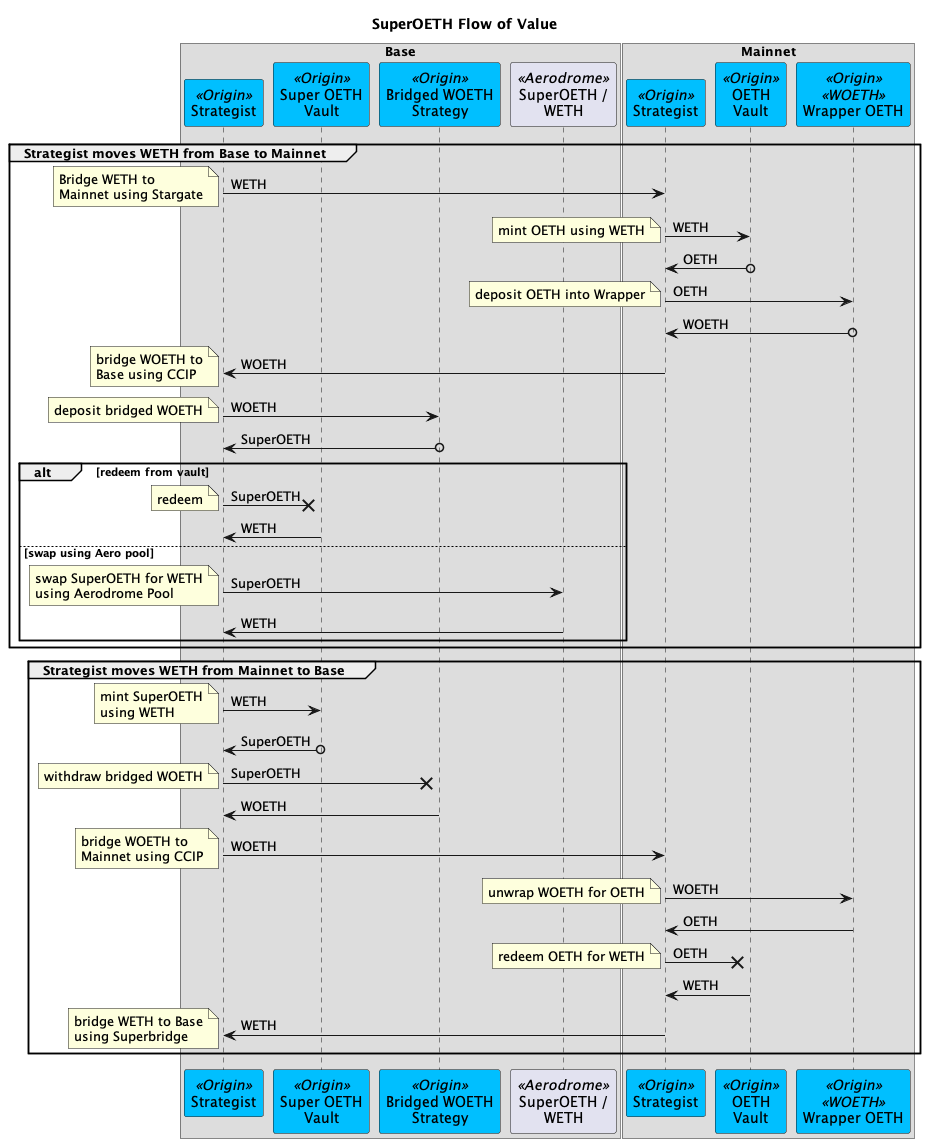
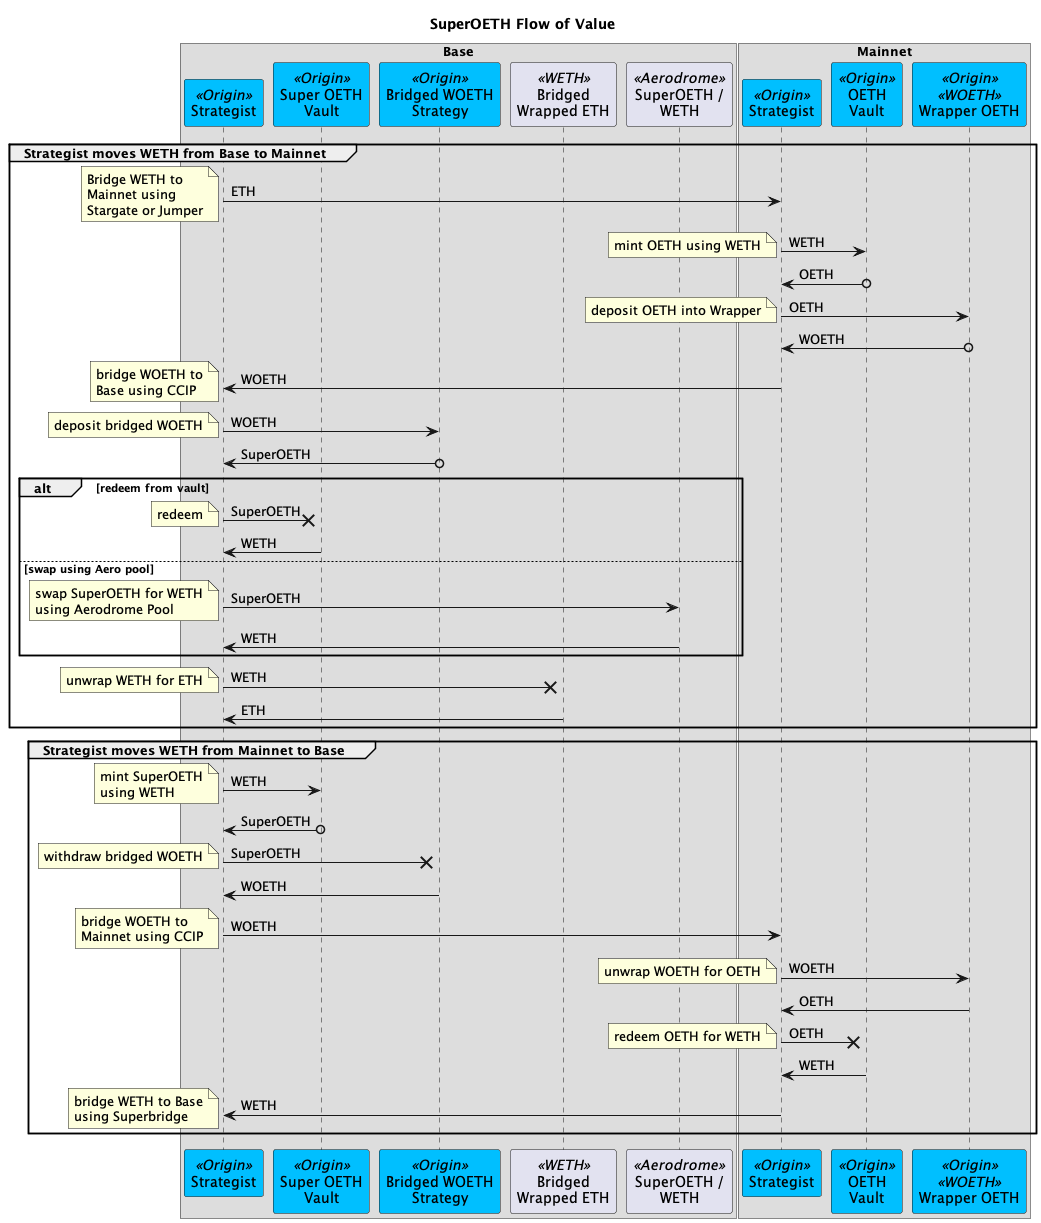
Run log 11 June 25 (#2530)
* Run log 11 June 25

* Base deposit wOETH to Bridging Strategy and redeem superOETH

* Run log Mint OETH, deposit wOETH and bridge wOETH to Base using CCIP

* Run log

* Updated the Base bridging flow

diff --git a/brownie/runlogs/2025_06_strategist.py b/brownie/runlogs/2025_06_strategist.py
@@ -168,3 +168,295 @@ def main():
     print("Pool OETH  ", "{:.6f}".format(oethPoolBalance / 10**18), oethPoolBalance * 100 / totalPool)
     print("Pool Total ", "{:.6f}".format(totalPool / 10**18), totalPool)
     print("Sell 10 OETH Curve prices before and after", "{:.6f}".format(weth_out_before / 10**18), "{:.6f}".format(weth_out_after / 10**18))
+
+# -------------------------------------
+# June 11, 2025 - Withdraw all from new Curve AMO and deposit to old Convex AMO
+# -------------------------------------
+from world import *
+
+def main():
+  with TemporaryForkForReallocations() as txs:
+    # Before
+    txs.append(vault_oeth_core.rebase(std))
+    txs.append(oeth_vault_value_checker.takeSnapshot(std))
+
+    # AMO pool before
+    wethPoolBalance = weth.balanceOf(OETH_CURVE_POOL)
+    oethPoolBalance = oeth.balanceOf(OETH_CURVE_POOL)
+    totalPool = wethPoolBalance + oethPoolBalance
+    weth_out_before = oeth_curve_pool.get_dy(1, 0, 10**18)
+
+    print("Curve OETH/WETH Pool before")  
+    print("Pool WETH  ", "{:.6f}".format(wethPoolBalance / 10**18), wethPoolBalance * 100 / totalPool)
+    print("Pool OETH  ", "{:.6f}".format(oethPoolBalance / 10**18), oethPoolBalance * 100 / totalPool)
+    print("Pool Total ", "{:.6f}".format(totalPool / 10**18), totalPool)
+
+    # Withdraw WETH from new Curve AMO
+    txs.append(
+      vault_oeth_admin.withdrawAllFromStrategy(
+        OETH_CURVE_AMO_STRAT,
+        {'from': STRATEGIST}
+      )
+    )
+
+    wethVaultBalance = weth.balanceOf(VAULT_OETH_PROXY_ADDRESS)
+    wethVaultBalance = wethVaultBalance - 3 * 10**18
+    print("WETH to deposit to Convex AMO", "{:.6f}".format(wethVaultBalance / 10**18), wethVaultBalance)
+
+    # Deposit WETH to old Convex AMO
+    txs.append(
+      vault_oeth_admin.depositToStrategy(
+        OETH_CONVEX_OETH_ETH_STRAT, 
+        [weth],
+        [wethVaultBalance],
+        {'from': STRATEGIST}
+      )
+    )
+
+    # After
+    vault_change = vault_oeth_core.totalValue() - oeth_vault_value_checker.snapshots(STRATEGIST)[0]
+    supply_change = oeth.totalSupply() - oeth_vault_value_checker.snapshots(STRATEGIST)[1]
+    profit = vault_change - supply_change
+
+    txs.append(oeth_vault_value_checker.checkDelta(profit, (1 * 10**18), vault_change, (1 * 10**18), std))
+
+    print("-----")
+    print("Profit", "{:.6f}".format(profit / 10**18), profit)
+    print("OETH supply change", "{:.6f}".format(supply_change / 10**18), supply_change)
+    print("Vault Change", "{:.6f}".format(vault_change / 10**18), vault_change)
+    print("-----")
+
+    # AMO pool after
+    wethPoolBalance = weth.balanceOf(OETH_CURVE_POOL)
+    oethPoolBalance = oeth.balanceOf(OETH_CURVE_POOL)
+    totalPool = wethPoolBalance + oethPoolBalance
+    weth_out_after = oeth_curve_pool.get_dy(1, 0, 10**18)
+
+    print("Curve OETH/ETH Pool after")  
+    print("Pool WETH  ", "{:.6f}".format(wethPoolBalance / 10**18), wethPoolBalance * 100 / totalPool)
+    print("Pool OETH  ", "{:.6f}".format(oethPoolBalance / 10**18), oethPoolBalance * 100 / totalPool)
+    print("Pool Total ", "{:.6f}".format(totalPool / 10**18), totalPool)
+    print("Sell 10 OETH Curve prices before and after", "{:.6f}".format(weth_out_before / 10**18), "{:.6f}".format(weth_out_after / 10**18))
+
+
+# -----------------------------------------------------
+# June 12, 2025 - Base deposit wOETH to Bridging Strategy and redeem superOETHb
+# -----------------------------------------------------
+from aerodrome_harvest import *
+
+def main():
+  with TemporaryForkForReallocations() as txs:
+    # Hack to make weth.withdraw work
+    brownie.network.web3.provider.make_request('hardhat_setCode', [OETHB_MULTICHAIN_STRATEGIST, '0x'])
+
+    woeth_amount = woeth.balanceOf(OETHB_MULTICHAIN_STRATEGIST)
+
+    # Update oracle price
+    txs.append(woeth_strat.updateWOETHOraclePrice({ 'from': OETHB_MULTICHAIN_STRATEGIST }))
+    
+    # expected_oethb = woeth_strat.getBridgedWOETHValue(woeth_amount)
+
+    # Rebase
+    txs.append(vault_core.rebase({ 'from': OETHB_MULTICHAIN_STRATEGIST }))
+
+    # Take Vault snapshot 
+    txs.append(vault_value_checker.takeSnapshot({ 'from': OETHB_MULTICHAIN_STRATEGIST }))
+
+    # Deposit to wOETH strategy
+    txs.append(woeth_strat.depositBridgedWOETH(woeth_amount, { 'from': OETHB_MULTICHAIN_STRATEGIST }))
+
+    # Get the amount of superOETHb now in the multisig
+    oethb_amount = oethb.balanceOf(OETHB_MULTICHAIN_STRATEGIST)
+
+    # Redeem the superOETHb for WETH
+    txs.append(vault_core.redeem(oethb_amount, oethb_amount, { 'from': MULTICHAIN_STRATEGIST }))
+
+    # Unwrap WETH to ETH so it can be bridged to Ethereum
+    txs.append(
+        weth.withdraw(oethb_amount, {'from': OETHB_MULTICHAIN_STRATEGIST})
+    )
+
+    # Rebase so that any yields from price update and
+    # backing asset change from deposit are accounted for.
+    txs.append(vault_core.rebase({ 'from': OETHB_MULTICHAIN_STRATEGIST }))
+
+    # Check Vault Value against snapshot
+    vault_change = vault_core.totalValue() - vault_value_checker.snapshots(OETHB_MULTICHAIN_STRATEGIST)[0]
+    supply_change = oethb.totalSupply() - vault_value_checker.snapshots(OETHB_MULTICHAIN_STRATEGIST)[1]
+    profit = vault_change - supply_change
+
+    txs.append(vault_value_checker.checkDelta(profit, (0.1 * 10**18), vault_change, (1 * 10**18), {'from': OETHB_MULTICHAIN_STRATEGIST}))
+
+    print("--------------------")
+    print("Deposited wOETH     ", c18(woeth_amount), woeth_amount)
+    print("Redeemed superOETHb ", c18(oethb_amount), oethb_amount)
+    print("--------------------")
+    print("Profit       ", c18(profit), profit)
+    print("Vault Change ", c18(vault_change), vault_change)
+
+# -------------------------------------
+# June 12, 2025 - Mint OETH, deposit wOETH and bridge wOETH to Base using CCIP
+# -------------------------------------
+from world import *
+import eth_abi
+
+def main():
+  with TemporaryForkForReallocations() as txs:
+    oeth_amount = 858 * 10**18  # 858 ETH
+
+    txs.append(
+        weth.approve(OETH_VAULT, oeth_amount, std)
+    )
+
+    # Mint OETH with WETH, 1:1
+    txs.append(
+        oeth_vault_core.mint(WETH, oeth_amount, oeth_amount, std)
+    )
+
+    txs.append(
+        woeth.deposit(oeth_amount, MULTICHAIN_STRATEGIST, std)
+    )
+
+    # Before
+    txs.append(vault_oeth_core.rebase(std))
+    txs.append(oeth_vault_value_checker.takeSnapshot(std))
+
+    # AMO pool before
+    ethPoolBalance = oeth_metapool.balance()
+    oethPoolBalance = oeth.balanceOf(OETH_METAPOOL)
+    totalPool = ethPoolBalance + oethPoolBalance
+    weth_out_before = oeth_metapool.get_dy(1, 0, 10**18)
+
+    print("Curve OETH/ETH Pool before")  
+    print("Pool ETH   ", "{:.6f}".format(ethPoolBalance / 10**18), ethPoolBalance * 100 / totalPool)
+    print("Pool OETH  ", "{:.6f}".format(oethPoolBalance / 10**18), oethPoolBalance * 100 / totalPool)
+    print("Pool Total ", "{:.6f}".format(totalPool / 10**18), totalPool)
+
+    # Deposit WETH to old Convex AMO
+    txs.append(
+      vault_oeth_admin.depositToStrategy(
+        OETH_CONVEX_OETH_ETH_STRAT, 
+        [WETH],
+        [oeth_amount],
+        {'from': STRATEGIST}
+      )
+    )
+
+    # AMO pool after
+    ethPoolBalance = oeth_metapool.balance()
+    oethPoolBalance = oeth.balanceOf(OETH_METAPOOL)
+    totalPool = ethPoolBalance + oethPoolBalance
+    weth_out_after = oeth_metapool.get_dy(1, 0, 10**18)
+
+    print("Curve OETH/ETH Pool after")  
+    print("Pool  ETH   ", "{:.6f}".format(ethPoolBalance / 10**18), ethPoolBalance * 100 / totalPool)
+    print("Pool OETH   ", "{:.6f}".format(oethPoolBalance / 10**18), oethPoolBalance * 100 / totalPool)
+    print("Pool Total ", "{:.6f}".format(totalPool / 10**18), totalPool)
+    print("Sell 10 OETH Curve prices before and after", "{:.6f}".format(weth_out_before / 10**18), "{:.6f}".format(weth_out_after / 10**18))
+
+    # After
+    vault_change = vault_oeth_core.totalValue() - oeth_vault_value_checker.snapshots(STRATEGIST)[0]
+    supply_change = oeth.totalSupply() - oeth_vault_value_checker.snapshots(STRATEGIST)[1]
+    profit = vault_change - supply_change
+
+    txs.append(oeth_vault_value_checker.checkDelta(profit, (1 * 10**18), vault_change, (1 * 10**18), std))
+
+    print("-----")
+    print("Profit", "{:.6f}".format(profit / 10**18), profit)
+    print("OETH supply change", "{:.6f}".format(supply_change / 10**18), supply_change)
+    print("Vault Change", "{:.6f}".format(vault_change / 10**18), vault_change)
+    print("-----")
+
+    # woeth_amount = woeth.balanceOf(MULTICHAIN_STRATEGIST)
+    print("wOETH balance", "{:.6f}".format(woeth.balanceOf(MULTICHAIN_STRATEGIST) / 10**18))
+    woeth_amount = 758.8 * 10**18  # 758.8 ETH
+
+    print("Minted  OETH ", "{:.6f}".format(oeth_amount / 10**18), oeth_amount)
+    print("Minted wOETH ", "{:.6f}".format(woeth_amount / 10**18), woeth_amount)
+
+    txs.append(
+      woeth.approve(CCIP_ROUTER, woeth_amount, std)
+    )
+
+    BASE_CHAIN_SELECTOR = 15971525489660198786
+
+    ccip_message = [
+          eth_abi.encode(['address'], [OETHB_MULTICHAIN_STRATEGIST]),
+          '0x',
+          [(WOETH, woeth_amount)],
+          ADDR_ZERO,
[1 lines of base64/hex data omitted]
+        ]
+    ccip_fee = ccip_router.getFee(BASE_CHAIN_SELECTOR, ccip_message)
+    ccip_fee = ccip_fee * 11 / 10  # Add 10% buffer
+
+    print("CCIP fee     ", ccip_fee)
+
+    txs.append(
+      ccip_router.ccipSend(
+        BASE_CHAIN_SELECTOR,
+        ccip_message,
+        { 'value': ccip_fee, 'from': MULTICHAIN_STRATEGIST }
+      )
+    )
+
+# -----------------------------------------------------
+# June 12, 2025 - Base deposit wOETH to Bridging Strategy and redeem superOETHb
+# -----------------------------------------------------
+from aerodrome_harvest import *
+
+def main():
+  with TemporaryForkForReallocations() as txs:
+    # Hack to make weth.withdraw work
+    brownie.network.web3.provider.make_request('hardhat_setCode', [OETHB_MULTICHAIN_STRATEGIST, '0x'])
+
+    woeth_amount = woeth.balanceOf(OETHB_MULTICHAIN_STRATEGIST)
+
+    # Update oracle price
+    txs.append(woeth_strat.updateWOETHOraclePrice({ 'from': OETHB_MULTICHAIN_STRATEGIST }))
+    
+    # expected_oethb = woeth_strat.getBridgedWOETHValue(woeth_amount)
+
+    # Rebase
+    txs.append(vault_core.rebase({ 'from': OETHB_MULTICHAIN_STRATEGIST }))
+
+    # Take Vault snapshot 
+    txs.append(vault_value_checker.takeSnapshot({ 'from': OETHB_MULTICHAIN_STRATEGIST }))
+
+    # Deposit to wOETH strategy
+    txs.append(woeth_strat.depositBridgedWOETH(woeth_amount, { 'from': OETHB_MULTICHAIN_STRATEGIST }))
+
+    # Get the amount of superOETHb now in the multisig
+    oethb_minted = oethb.balanceOf(OETHB_MULTICHAIN_STRATEGIST)
+
+    oethb_redeemed = 492 * 10**18  # 492 ETH
+    oethb_remaining = oethb_minted - oethb_redeemed
+
+    # Redeem the superOETHb for WETH
+    txs.append(vault_core.redeem(oethb_redeemed, oethb_redeemed, { 'from': MULTICHAIN_STRATEGIST }))
+
+    # Unwrap WETH to ETH so it can be bridged to Ethereum
+    txs.append(
+        weth.withdraw(oethb_redeemed, {'from': OETHB_MULTICHAIN_STRATEGIST})
+    )
+
+    # Rebase so that any yields from price update and
+    # backing asset change from deposit are accounted for.
+    txs.append(vault_core.rebase({ 'from': OETHB_MULTICHAIN_STRATEGIST }))
+
+    # Check Vault Value against snapshot
+    vault_change = vault_core.totalValue() - vault_value_checker.snapshots(OETHB_MULTICHAIN_STRATEGIST)[0]
+    supply_change = oethb.totalSupply() - vault_value_checker.snapshots(OETHB_MULTICHAIN_STRATEGIST)[1]
+    profit = vault_change - supply_change
+
+    txs.append(vault_value_checker.checkDelta(profit, (0.1 * 10**18), vault_change, (1 * 10**18), {'from': OETHB_MULTICHAIN_STRATEGIST}))
+
+    print("--------------------")
+    print("Deposited wOETH     ", c18(woeth_amount), woeth_amount)
+    print("Minted superOETHb   ", c18(oethb_minted), oethb_minted)
+    print("Redeemed superOETHb ", c18(oethb_redeemed), oethb_redeemed)
+    print("Remaining superOETHb", c18(oethb_remaining), oethb_remaining)
+    print("ETH to bridged      ", c18(oethb_redeemed), oethb_redeemed)
+    print("--------------------")
+    print("Profit       ", c18(profit), profit)
+    print("Vault Change ", c18(vault_change), vault_change)
